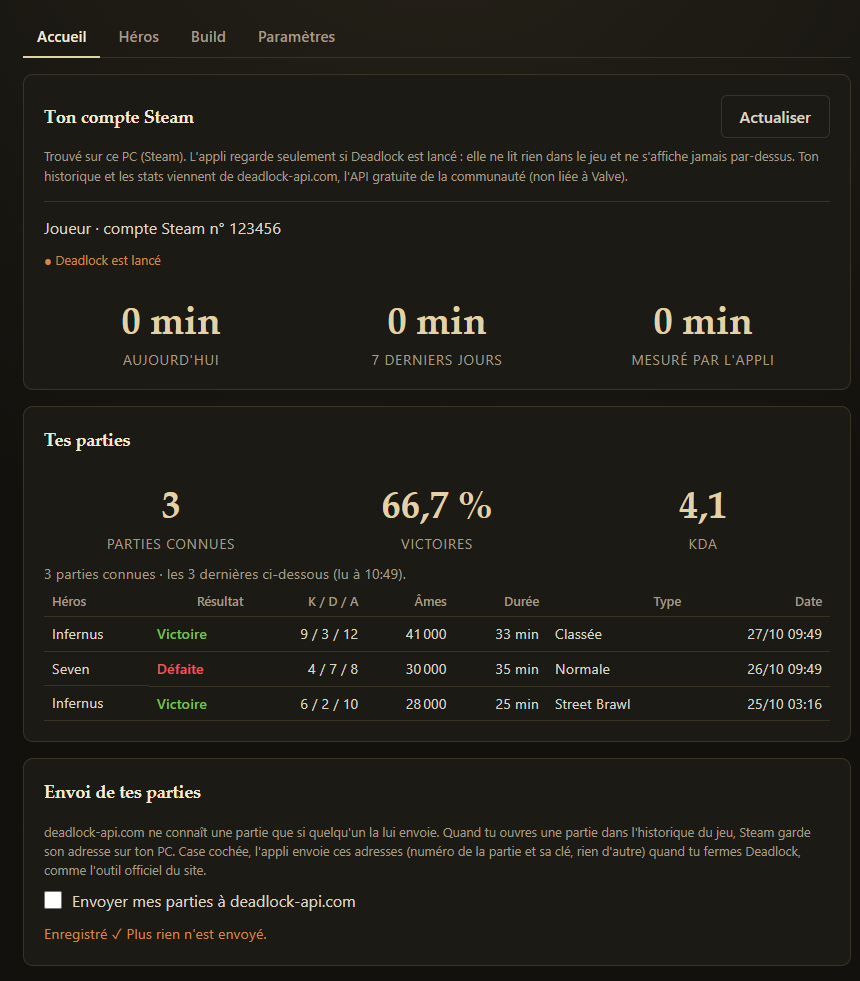
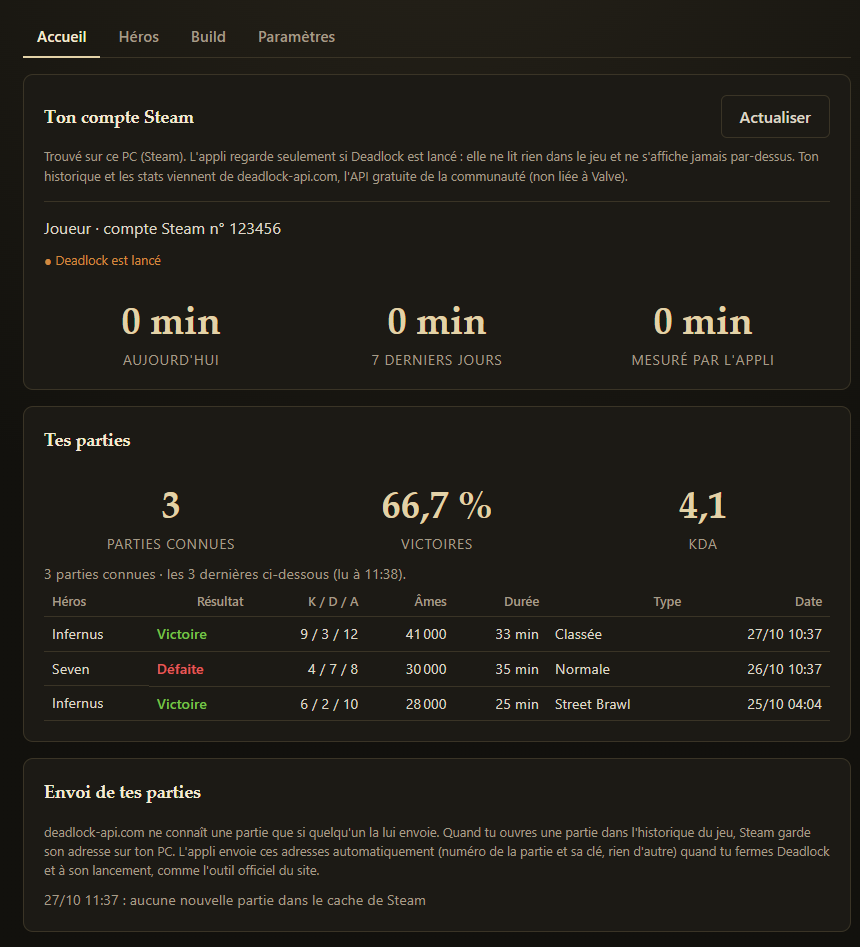
Mode Deadlock : parties envoyées automatiquement à deadlock-api.com (plus de case)
Au lancement de l'appli et à chaque fermeture de Deadlock, une seule fois par partie.

diff --git a/test/deadlock.test.js b/test/deadlock.test.js
@@ -124,11 +124,11 @@ test("deadlock.json : sessions et parties envoyées, lecture tolérante, session
   }
 });
 
-test("réglages : envoi désactivé par défaut, niveau entre 1 et 11 ou tous", () => {
-  assert.deepStrictEqual(normaliserReglagesDeadlock(undefined), { envoyerParties: false, rang: null });
-  assert.deepStrictEqual(normaliserReglagesDeadlock({ envoyerParties: "oui", rang: 0 }), { envoyerParties: false, rang: null });
-  assert.deepStrictEqual(normaliserReglagesDeadlock({ envoyerParties: true, rang: 8 }), { envoyerParties: true, rang: 8 });
-  assert.deepStrictEqual(normaliserReglagesDeadlock({ rang: 12 }), { envoyerParties: false, rang: null });
+test("réglages : niveau entre 1 et 11 ou tous ; l'ancienne case de l'envoi des parties est ignorée", () => {
+  assert.deepStrictEqual(normaliserReglagesDeadlock(undefined), { rang: null });
+  assert.deepStrictEqual(normaliserReglagesDeadlock({ envoyerParties: false, rang: 0 }), { rang: null });
+  assert.deepStrictEqual(normaliserReglagesDeadlock({ envoyerParties: true, rang: 8 }), { rang: 8 });
+  assert.deepStrictEqual(normaliserReglagesDeadlock({ rang: 12 }), { rang: null });
 });
 
 // --- Le service ------------------------------------------------------------------------------------------
@@ -136,7 +136,7 @@ test("réglages : envoi désactivé par défaut, niveau entre 1 et 11 ou tous", 
 const HEROS = new Map([[1, { id: 1, nom: "Infernus" }], [2, { id: 2, nom: "Seven" }]]);
 
 function service({ lance = false, compte = { accountId: 123, pseudo: "Joueur" }, cache = [], historique = [], echecEnvoi = null } = {}) {
-  const trace = { envoyees: [], etats: [], journal: [], sessions: [], notees: [], reglages: { envoyerParties: false, rang: null } };
+  const trace = { envoyees: [], etats: [], journal: [], sessions: [], notees: [], reglages: { rang: null } };
   const etatJeu = { lance };
   let heure = 1_000_000;
   const jeu = {
@@ -191,7 +191,7 @@ test("service : état (jeu, compte, temps de jeu), lancement puis fermeture enre
   dl.demarrer();
   await dl.verifier();
   assert.deepStrictEqual(await dl.etat(), {
-    lance: false, compte: { accountId: 123, pseudo: "Joueur" }, temps: { aujourdhui: 0, septJours: 0, total: 0 }, reglages: { envoyerParties: false, rang: null }, dernierEnvoi: null,
+    lance: false, compte: { accountId: 123, pseudo: "Joueur" }, temps: { aujourdhui: 0, septJours: 0, total: 0 }, reglages: { rang: null }, dernierEnvoi: { date: 1_000_000, envoyees: 0, erreur: null }, // cache vide, vérifié au démarrage
   });
   etatJeu.lance = true;
   await dl.verifier();
@@ -202,22 +202,27 @@ test("service : état (jeu, compte, temps de jeu), lancement puis fermeture enre
   await dl.verifier();
   assert.deepStrictEqual(trace.sessions, [{ debut: 1_000_000, fin: 1_000_000 + 40 * 60 * 1000 }]);
   assert.strictEqual(trace.etats.at(-1).lance, false);
-  assert.deepStrictEqual(trace.envoyees, [], "case décochée : rien n'est envoyé");
   dl.arreter();
 });
 
-test("service : envoi des parties du cache seulement avec la case, jamais deux fois la même, erreur dite", async () => {
+test("service : parties du cache envoyées d'office (au démarrage, à la fermeture du jeu), jamais deux fois, erreur dite", async () => {
   const cache = [{ match_id: 1, cluster_id: 4, metadata_salt: 5 }, { match_id: 2, cluster_id: 4, replay_salt: 6 }];
-  const { dl, trace } = service({ cache });
-  assert.strictEqual(await dl.envoyerNouvellesParties(), null, "case décochée");
-  dl.enregistrer({ envoyerParties: true });
-  await new Promise((ok) => setTimeout(ok, 10)); // cocher la case envoie tout de suite ce qui est déjà dans le cache
+  const { dl, trace, etatJeu } = service({ cache });
+  dl.demarrer();
+  await new Promise((ok) => setTimeout(ok, 10)); // au démarrage : ce qui est déjà dans le cache
   assert.deepStrictEqual(trace.envoyees, [1, 2]);
+  assert.strictEqual(trace.etats.at(-1).dernierEnvoi.envoyees, 2, "la page est prévenue");
+  cache.push({ match_id: 3, cluster_id: 4, metadata_salt: 7 });
+  etatJeu.lance = true;
+  await dl.verifier();
+  etatJeu.lance = false;
+  await dl.verifier(); // fermeture du jeu : la nouvelle partie part
+  assert.deepStrictEqual(trace.envoyees, [1, 2, 3]);
+  dl.arreter();
   assert.deepStrictEqual((await dl.envoyerNouvellesParties()).envoyees, 0, "déjà envoyées : rien de plus");
-  assert.deepStrictEqual(trace.envoyees, [1, 2]);
+  assert.deepStrictEqual(trace.envoyees, [1, 2, 3]);
   assert.ok(trace.journal.some((ligne) => ligne.includes("parties du cache de Steam")));
   const panne = service({ cache, echecEnvoi: "deadlock-api.com est surchargé" });
-  panne.trace.reglages = { envoyerParties: true, rang: null };
   const r = await panne.dl.envoyerNouvellesParties();
   assert.deepStrictEqual([r.envoyees, r.erreur], [0, "deadlock-api.com est surchargé"]);
   assert.deepStrictEqual(panne.trace.notees, [], "échec : rien n'est noté comme envoyé (réessayé la prochaine fois)");

diff --git a/deadlock.js b/deadlock.js
@@ -18,21 +18,20 @@ const { JOURS_TIER_LISTE, JOURS_BUILD } = require("./deadlock-api.js");
 
 /**
  * Réglages du mode Deadlock (config.json, clé « deadlock »), toujours valides :
- *  - envoyerParties : envoyer à deadlock-api.com les parties trouvées dans le cache de Steam (désactivé par défaut) ;
  *  - rang : niveau minimal des parties pour les stats des héros et le build (0 à 11 ; null = tous les niveaux).
+ * L'envoi des parties du cache de Steam n'a plus de case : il est fait d'office (décision du propriétaire, 27/10/2026,
+ * version 1.5.1). L'ancien réglage « envoyerParties » est simplement ignoré.
  */
 function normaliserReglagesDeadlock(brut) {
   const r = brut && typeof brut === "object" ? brut : {};
   return {
-    envoyerParties: r.envoyerParties === true,
     rang: Number.isInteger(r.rang) && r.rang >= 1 && r.rang <= 11 ? r.rang : null,
   };
 }
 
 const MESSAGE_AUCUNE_PARTIE =
-  "deadlock-api.com ne connaît encore aucune de tes parties. Coche « Envoyer mes parties » ci-dessous, puis ouvre tes " +
-  "parties dans l'historique du jeu (Profil → Historique) : Steam garde leur adresse, et l'appli les envoie quand tu " +
-  "fermes Deadlock. Les parties jouées avec des joueurs qui utilisent l'outil du site apparaissent aussi toutes seules.";
+  "deadlock-api.com ne connaît encore aucune de tes parties. Ouvre tes parties dans l'historique du jeu " +
+  "(Profil → Historique) : Steam garde leur adresse, et l'appli les envoie toute seule quand tu fermes Deadlock. Les parties jouées avec des joueurs qui utilisent l'outil du site apparaissent aussi toutes seules.";
 
 /**
  * lecteur : creerLecteurDeadlock (deadlock-api.js) ; donnees : creerDonneesDeadlock (deadlock-donnees.js) ;
@@ -124,11 +123,11 @@ function creerDeadlock({ lecteur, donnees, reglages, enregistrerReglages, jeu = 
   }
 
   /**
-   * Envoie à deadlock-api.com les parties du cache de Steam pas encore envoyées (case cochée seulement).
-   * Un seul envoi à la fois ; le résultat est gardé dans dernierEnvoi et écrit dans le journal.
+   * Envoie à deadlock-api.com les parties du cache de Steam pas encore envoyées (d'office depuis le 27/10/2026 : au
+   * lancement de l'appli et à chaque fermeture de Deadlock). Un seul envoi à la fois ; le résultat est gardé dans
+   * dernierEnvoi et écrit dans le journal.
    */
   function envoyerNouvellesParties() {
-    if (!reglagesPropres().envoyerParties) return Promise.resolve(null);
     if (envoiEnCours) return envoiEnCours;
     envoiEnCours = (async () => {
       try {
@@ -151,12 +150,10 @@ function creerDeadlock({ lecteur, donnees, reglages, enregistrerReglages, jeu = 
     return envoiEnCours;
   }
 
-  /** Enregistre les réglages ; la case « Envoyer mes parties » cochée envoie tout de suite ce qui est déjà dans le cache. */
+  /** Enregistre les réglages (niveau des stats). */
   function enregistrer(brut) {
-    const avant = reglagesPropres();
     const propres = normaliserReglagesDeadlock(brut);
     enregistrerReglages(propres);
-    if (propres.envoyerParties && !avant.envoyerParties) envoyerNouvellesParties().then(publier, () => {});
     return propres;
   }
 
@@ -181,6 +178,8 @@ function creerDeadlock({ lecteur, donnees, reglages, enregistrerReglages, jeu = 
       aErreur: (erreur) => journal("Deadlock : erreur de la surveillance", erreur.message),
     });
     suivi.demarrer();
+    // Parties déjà dans le cache de Steam (jouées avant l'ouverture de l'appli) : envoyées tout de suite.
+    envoyerNouvellesParties().then((envoi) => (envoi && envoi.envoyees > 0 ? publier() : null), () => {});
   }
 
   function arreter() {

diff --git a/src/onglets/deadlock-accueil.js b/src/onglets/deadlock-accueil.js
@@ -2,12 +2,12 @@
  * Mode Deadlock, onglet Accueil (27/10/2026)
  * ------------------------------------------
  * Ton compte Steam (trouvé sur ce PC), ton temps de jeu (mesuré par l'appli), tes dernières parties (deadlock-api.com)
- * et la case « Envoyer mes parties ». Tout vient de main.js (deadlock.js) par window.appli : la page ne lit rien
+ * et l'envoi automatique de tes parties. Tout vient de main.js (deadlock.js) par window.appli : la page ne lit rien
  * elle-même. Ce fichier tient aussi l'état du jeu (lancé ou fermé), dont dépend le passage automatique en mode Deadlock.
  */
 
 const RELECTURE_DEADLOCK_MS = 5 * 60 * 1000; // un onglet Deadlock rouvert dans les 5 min ne redemande rien
-let etatDeadlock = { lance: false, compte: null, temps: null, reglages: { envoyerParties: false, rang: null }, dernierEnvoi: null };
+let etatDeadlock = { lance: false, compte: null, temps: null, reglages: { rang: null }, dernierEnvoi: null };
 let accueilDeadlockLu = 0; // heure de la dernière lecture réussie de tes parties (0 : à relire)
 let herosLePlusJoue = null; // ton héros le plus joué : choisi d'office dans l'onglet Build
 let buildDeadlockAffiche = null; // héros dont le build est affiché (onglet Build) ; null : rien, ou niveau changé (onglet Héros)
@@ -29,7 +29,6 @@ function afficherEtatDeadlock(etat) {
   $("deadlockTempsJour").textContent = texteDureeMs(t.aujourdhui);
   $("deadlockTempsSemaine").textContent = texteDureeMs(t.septJours);
   $("deadlockTempsTotal").textContent = texteDureeMs(t.total);
-  $("deadlockEnvoyer").checked = Boolean(etat.reglages && etat.reglages.envoyerParties);
 
   const envoi = etat.dernierEnvoi;
   if (envoi && envoi.erreur) afficherEtat("etatDeadlockEnvoi", `Envoi des parties (${formatDateHeure(envoi.date)}) : ${envoi.erreur}`, "erreur");
@@ -82,7 +81,7 @@ async function chargerAccueilDeadlock({ forcer = false } = {}) {
   else afficherEtat("etatDeadlockAccueil", `${pluriel(r.nombre, "partie connue", "parties connues")} · les ${lignes.length} dernières ci-dessous (lu à ${heure()}).`, "info");
 }
 
-/** Enregistre les réglages Deadlock (case de cet onglet, niveau de l'onglet Héros) -> réglages propres, ou null. */
+/** Enregistre les réglages Deadlock (niveau de l'onglet Héros) -> réglages propres, ou null. */
 async function enregistrerReglagesDeadlock(changements, idEtat) {
   const reponse = await window.appli.enregistrerDeadlock({ ...etatDeadlock.reglages, ...changements });
   if (!reponse.ok) {
@@ -101,11 +100,6 @@ function brancherDeadlockAccueil() {
   $("deadlockActualiser").addEventListener("click", async () => {
     afficherEtatDeadlock(await window.appli.lireDeadlock());
     await chargerAccueilDeadlock({ forcer: true });
-  });
-  $("deadlockEnvoyer").addEventListener("change", async () => {
-    const reglages = await enregistrerReglagesDeadlock({ envoyerParties: $("deadlockEnvoyer").checked }, "etatDeadlockEnvoi");
-    if (!reglages) return;
-    afficherEtat("etatDeadlockEnvoi", reglages.envoyerParties ? "Enregistré ✓ Les parties déjà dans le cache de Steam sont envoyées tout de suite, les suivantes quand tu fermes Deadlock." : "Enregistré ✓ Plus rien n'est envoyé.", "ok");
   });
 }
 

diff --git a/outils/essai-complet.js b/outils/essai-complet.js
@@ -211,7 +211,7 @@ const ATTENDU = {
 };
 // Mode Deadlock : ce que chaque onglet doit montrer avec la fausse deadlock-api.com.
 const ATTENDU_DEADLOCK = {
-  deadlock: ["Ton compte Steam", "Joueur", "Deadlock est lancé", "Infernus", "Classée", "Street Brawl", "Envoyer mes parties"],
+  deadlock: ["Ton compte Steam", "Joueur", "Deadlock est lancé", "Infernus", "Classée", "Street Brawl", "automatiquement"],
   deadlockheros: ["Infernus", "Seven", "Vindicta", "Tes héros"],
   deadlockbuild: ["Build Infernus", "Début de partie", "Extended Magazine", "Toxic Bullets", "Plus dur contre", "Seven"],
 };
@@ -318,16 +318,8 @@ require(path.join(PROJET, "main.js"));
     await attendre(1500);
     const texte = await texteDuPanneau(onglet);
     for (const mot of mots) if (!texte.includes(mot)) problemes.push(`onglet ${onglet} : « ${mot} » introuvable`);
-    if (onglet === "deadlock") {
-      // Case de l'envoi des parties : décochée par défaut, enregistrée quand on la coche, puis remise comme avant.
-      const envoi = () => (config().deadlock || {}).envoyerParties;
-      if (await page(`$("deadlockEnvoyer").checked`)) problemes.push("mode Deadlock : envoi des parties coché par défaut");
-      await page(`$("deadlockEnvoyer").click(); true`);
-      await attendre(600);
-      if (envoi() !== true) problemes.push("mode Deadlock : case de l'envoi des parties pas enregistrée");
-      await page(`$("deadlockEnvoyer").click(); true`);
-      await attendre(400);
-      if (envoi() !== false) problemes.push("mode Deadlock : case de l'envoi des parties pas décochée");
+    if (onglet === "deadlock" && (await page(`Boolean(document.querySelector("#panneau-deadlock input[type=checkbox]"))`))) {
+      problemes.push("mode Deadlock : il reste une case (l'envoi des parties est automatique depuis la 1.5.1)");
     }
     await photographier(fenetre, onglet);
     console.log(`onglet ${onglet} : vu`);

diff --git a/test/messages.test.js b/test/messages.test.js
@@ -253,7 +253,7 @@ test("mode Deadlock : état, onglets et réglages passent par deadlock.js ; hér
       appels.push(["build", id]);
       return { heros: { id, nom: "Infernus" } };
     },
-    enregistrer: (r) => ({ envoyerParties: r.envoyerParties === true, rang: null }),
+    enregistrer: (r) => ({ rang: Number.isInteger(r.rang) ? r.rang : null }),
   };
   const { ipc, journal } = brancher({ deadlock: () => deadlock });
   assert.deepStrictEqual(await ipc.demander("deadlock:etat"), { lance: true });
@@ -268,6 +268,6 @@ test("mode Deadlock : état, onglets et réglages passent par deadlock.js ; hér
     assert.deepStrictEqual(await ipc.demander("deadlock:build", PAGE, invalide), { ok: false, erreur: "Choisis un héros.", probleme: null }, String(invalide));
   }
   assert.deepStrictEqual(appels, [["build", 1]]);
-  assert.deepStrictEqual(await ipc.demander("deadlock:enregistrer", PAGE, { envoyerParties: true }), { ok: true, reglages: { envoyerParties: true, rang: null } });
+  assert.deepStrictEqual(await ipc.demander("deadlock:enregistrer", PAGE, { rang: 8 }), { ok: true, reglages: { rang: 8 } });
   assert.deepStrictEqual(journal.erreurs, [], "les erreurs prévues ne remplissent pas le journal");
 });

diff --git a/src/index.html b/src/index.html
@@ -651,15 +651,9 @@
           <h2>Envoi de tes parties</h2>
           <p class="aide">
             deadlock-api.com ne connaît une partie que si quelqu'un la lui envoie. Quand tu ouvres une partie dans
-            l'historique du jeu, Steam garde son adresse sur ton PC. Case cochée, l'appli envoie ces adresses (numéro de la
-            partie et sa clé, rien d'autre) quand tu fermes Deadlock, comme l'outil officiel du site.
+            l'historique du jeu, Steam garde son adresse sur ton PC. L'appli envoie ces adresses automatiquement (numéro
+            de la partie et sa clé, rien d'autre) quand tu fermes Deadlock et à son lancement, comme l'outil officiel du site.
           </p>
-          <form id="formDeadlock" class="reglages-acceptation">
-            <label class="check">
-              <input type="checkbox" id="deadlockEnvoyer">
-              <span>Envoyer mes parties à deadlock-api.com</span>
-            </label>
-          </form>
           <p id="etatDeadlockEnvoi" class="etat" hidden></p>
         </div>
       </section>

diff --git a/src/app.js b/src/app.js
@@ -40,7 +40,7 @@ async function initialiser() {
   if (!window.appli) {
     activerOnglet(ONGLET_PAR_DEFAUT, { memoriser: false });
     ["boutonImport", "remettreSets", "deadlockActualiser"].forEach((id) => ($(id).disabled = true));
-    for (const id of ["formAcceptation", "formMaj", "formSelection", "formBuild", "formConsulterBuild", "formChallenge", "formDeadlock", "formDeadlockBuild"]) {
+    for (const id of ["formAcceptation", "formMaj", "formSelection", "formBuild", "formConsulterBuild", "formChallenge", "formDeadlockBuild"]) {
       for (const element of $(id).elements) element.disabled = true;
     }
     afficherEtat("etatClient", "Lance l'appli avec npm start : le niveau est lu dans le client League.", "info");

diff --git a/deadlock-jeu.js b/deadlock-jeu.js
@@ -13,7 +13,7 @@
  *  - le cache web de Steam (Steam\appcache\httpcache) : quand tu ouvres une partie dans l'historique du jeu, Steam y
  *    garde l'adresse de son résumé, http://replay<serveur>.valve.net/1422450/<partie>_<clé>.meta.bz2. Ces numéros
  *    permettent à deadlock-api.com de connaître la partie (même méthode que l'outil officiel du site, deadlock-api-ingest,
- *    licence MIT, src/scan_cache.rs : les 200 premiers octets de chaque fichier). Envoi seulement si la case est cochée.
+ *    licence MIT, src/scan_cache.rs : les 200 premiers octets de chaque fichier). Envoi automatique depuis la 1.5.1 (deadlock.js).
  */
 const fs = require("fs");
 const path = require("path");

diff --git a/deadlock-api.js b/deadlock-api.js
@@ -12,7 +12,7 @@
  *
  * Ce qui est envoyé (accord du propriétaire, 27/10/2026) :
  *  - ton numéro de compte Steam (public), pour TON historique et TES stats ;
- *  - seulement si la case « Envoyer mes parties » est cochée : les numéros et clés des parties trouvées dans le cache
+ *  - automatiquement (sans case depuis la 1.5.1, décision du 27/10/2026) : les numéros et clés des parties trouvées dans le cache
  *    de Steam (deadlock-jeu.js), comme l'outil officiel du site, sans le nom d'utilisateur ni rien d'autre ;
  *  - pour les stats générales : le héros, la période, le niveau choisi. Jamais le pseudo, ni rien d'autre du PC.
  */

diff --git a/README.md b/README.md
@@ -42,7 +42,7 @@ avec le vrai client, ce sont celles du jeu). Le build de l'onglet Build vient de
 | **Challenge** | Challenge Arena : faire un top 3 avec tous les champions, dans l'ordre alphabétique. Faits, restants, barre de progression, prochain champion, et pick automatique du prochain champion en Arena |
 | **Build** | Build de ton champion (Lolalytics + OP.GG) : page de runes, set d'objets et sorts créés pour toi, set « Champion Rank 1 », chronos des sorts adverses, consultation du build de n'importe quel champion |
 | **Paramètres** | Accepter automatiquement les parties, mises à jour, dossier du jeu, relancer l'assistant de démarrage |
-| **Deadlock · Accueil** | Mode Deadlock (quand le jeu est lancé, ou bouton « Deadlock » en haut) : ton compte Steam, ton temps de jeu, tes dernières parties, et la case pour envoyer tes parties à deadlock-api.com |
+| **Deadlock · Accueil** | Mode Deadlock (quand le jeu est lancé, ou bouton « Deadlock » en haut) : ton compte Steam, ton temps de jeu, tes dernières parties (envoyées automatiquement à deadlock-api.com) |
 | **Deadlock · Héros** | Les meilleurs héros du moment (taux de victoire prudent, popularité, filtre de niveau) et tes stats par héros |
 | **Deadlock · Build** | Les objets les plus achetés d'un héros, par moment de la partie, et les héros qui le contrent |
 
@@ -244,7 +244,7 @@ chaque jeu est retenu.
 
 - **Ce que l'appli regarde sur ton PC, et rien d'autre** (`deadlock-jeu.js`) : la liste des programmes de Windows
   (`deadlock.exe` tourne-t-il ? toutes les 5 s, `tasklist`), ton compte Steam (registre de Windows, sinon
-  `Steam\config\loginusers.vdf`) et, si tu coches la case, le cache web de Steam. **Jamais** la mémoire du jeu, jamais
+  `Steam\config\loginusers.vdf`) et le cache web de Steam (pour envoyer tes parties). **Jamais** la mémoire du jeu, jamais
   d'affichage par-dessus, jamais un fichier du jeu modifié : Deadlock a un anti-triche, et il n'a pas d'API locale (pas
   de « Game State Integration » comme CS2 ou Dota 2, vérifié dans les fichiers du jeu le 27/10/2026).
 - **Accueil** : ton compte Steam, ton **temps de jeu** mesuré par l'appli (aujourd'hui, 7 jours, total : de l'ouverture
@@ -266,12 +266,12 @@ chaque jeu est retenu.
   (`internet.js`) : identification honnête, cache (3 h pour les stats, 5 min pour ton historique), 20 s au plus,
   message clair si le site est surchargé (codes 429 et 503). Formats vérifiés sur le vrai site le 27/10/2026
   (2 700 parties d'un joueur public ; victoire = `match_result` égal à `player_team`).
-- **« Envoyer mes parties à deadlock-api.com »** (case, **désactivée par défaut**) : le site ne connaît une partie que
-  si quelqu'un la lui envoie. Quand tu ouvres une partie dans l'historique du jeu, Steam garde son adresse dans son
-  cache (`Steam\appcache\httpcache`, `http://replay<serveur>.valve.net/1422450/<partie>_<clé>.meta.bz2`). Case
-  cochée, l'appli lit le début de ces fichiers (sans rien modifier) et envoie **seulement** le numéro de chaque partie,
-  son serveur et sa clé (`POST /v1/matches/salts`), quand tu fermes Deadlock (et tout de suite en cochant la case), une
-  seule fois par partie. Même méthode que l'outil officiel du site (`deadlock-api-ingest`, licence MIT), mais sans sa
+- **Envoi automatique de tes parties** (sans case depuis la 1.5.1, décision du propriétaire du 27/10/2026) : le site ne
+  connaît une partie que si quelqu'un la lui envoie. Quand tu ouvres une partie dans l'historique du jeu, Steam garde
+  son adresse dans son cache (`Steam\appcache\httpcache`,
+  `http://replay<serveur>.valve.net/1422450/<partie>_<clé>.meta.bz2`). L'appli lit le début de ces fichiers (sans rien
+  modifier) et envoie **seulement** le numéro de chaque partie, son serveur et sa clé (`POST /v1/matches/salts`), au
+  lancement de l'appli et à chaque fermeture de Deadlock, une seule fois par partie. Même méthode que l'outil officiel du site (`deadlock-api-ingest`, licence MIT), mais sans sa
   lecture de la mémoire du jeu.
 - **Ton compte** (accord du propriétaire, 27/10/2026) : son numéro Steam (public) est envoyé à deadlock-api.com pour lire
   TON historique et TES stats. Ton pseudo reste sur le PC.
@@ -718,8 +718,8 @@ inattendu n'est jamais une raison de planter, l'appli affiche ce qu'elle a.
   à rien (Content-Security-Policy inchangée).
 - **Mode Deadlock** (décision du propriétaire, 27/10/2026) : deadlock-api.com (`deadlock-api.js`), seulement quand tu
   ouvres un onglet Deadlock. Envoyé : ton numéro de compte Steam (public, pour TON historique), le héros, la période et
-  le niveau choisis ; et, seulement si tu coches « Envoyer mes parties », le numéro, le serveur et la clé des parties
-  trouvées dans le cache de Steam. Jamais ton pseudo. Sur le PC, l'appli ne regarde que la liste des programmes, ton
+  le niveau choisis ; et, automatiquement (depuis la 1.5.1), le numéro, le serveur et la clé des parties trouvées dans
+  le cache de Steam. Jamais ton pseudo. Sur le PC, l'appli ne regarde que la liste des programmes, ton
   compte Steam et ce cache : jamais la mémoire de Deadlock, jamais d'affichage par-dessus (anti-triche).
 - **Mise à jour automatique** (décision du propriétaire, 11/10/2026) : l'appli installée lit la dernière Release de
   github.com/mohamed-ali-akir/lol-companion (activé par défaut, désactivable). Elle ne fait que télécharger des fichiers
@@ -857,8 +857,8 @@ s'inscrit avec `surRendu()` et est redessiné par `mettreAJour()`.
 - Les données sont rangées par Riot ID (`pseudo#tag`) : si tu changes de Riot ID, l'historique repart de zéro.
 - **Mode Deadlock** : deadlock-api.com est faite par la communauté ; si elle change ou ferme, les onglets Deadlock
   affichent un message clair (la sonde quotidienne le voit le jour même), seul le temps de jeu reste. Tes parties n'y
-  apparaissent que si quelqu'un les a envoyées (case « Envoyer mes parties », ou un joueur de la partie qui utilise
-  l'outil du site). Pas d'infos pendant la partie : Deadlock n'a pas d'API locale.
+  apparaissent que si quelqu'un les a envoyées (l'appli, une fois la partie ouverte dans l'historique du jeu, ou un
+  joueur de la partie qui utilise l'outil du site). Pas d'infos pendant la partie : Deadlock n'a pas d'API locale.
 - Le code de la page (`src/onglets/`) et la partie Electron de l'arrière-plan (icône, fenêtre cachée, démarrage de
   Windows) n'ont pas de tests automatiques : ils sont vérifiés en lançant l'appli.
 

diff --git a/CHANGELOG.md b/CHANGELOG.md
@@ -3,6 +3,10 @@
 Ce qui change d'une version à l'autre, du plus récent au plus ancien. Le détail technique de chaque choix est dans
 le [README](README.md) et dans l'historique Git.
 
+## Prochaine version (pas encore publiée)
+- **Mode Deadlock** : tes parties sont envoyées automatiquement à deadlock-api.com (plus de case à cocher), au lancement
+  de l'appli et quand tu fermes Deadlock.
+
 ## 1.5.0 (27/10/2026)
 - **Mode Deadlock** : quand Deadlock est lancé, l'appli passe toute seule en mode Deadlock et s'appelle alors
   **Deadlock Companion** (boutons « League of
